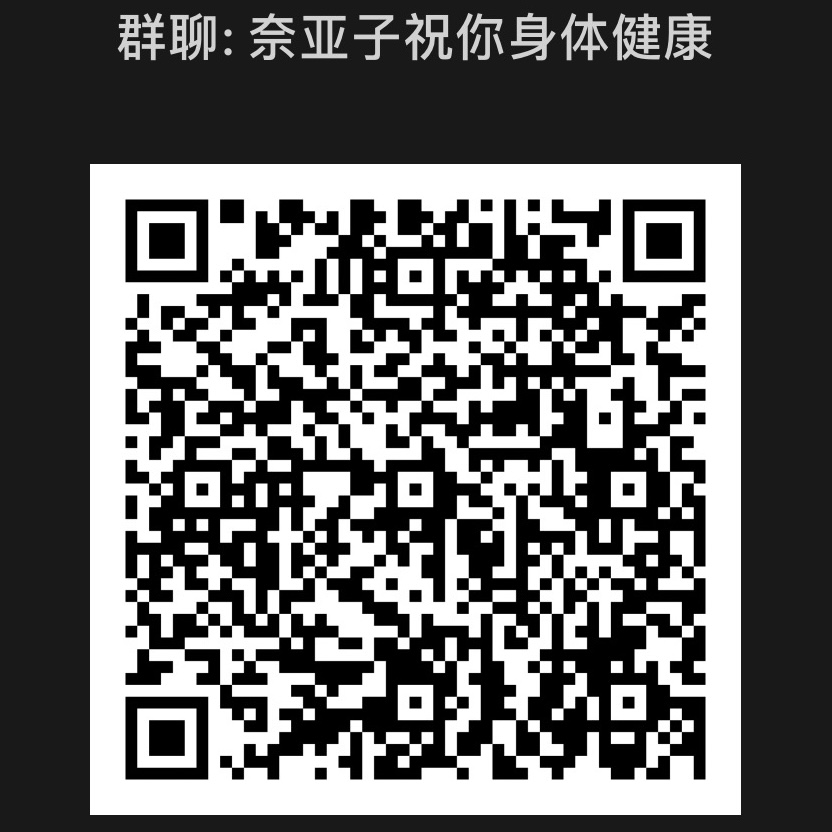
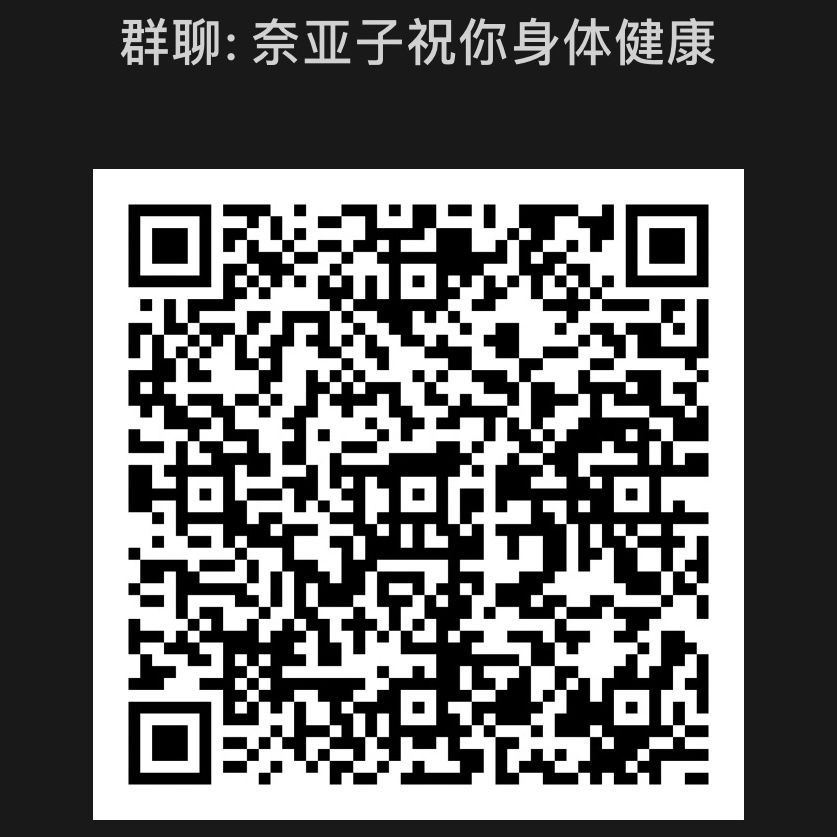
[coc-card] 自动保存功能 & 更新群二维码

diff --git a/src/pages/coc-card/components/GuidePaneContent.vue b/src/pages/coc-card/components/GuidePaneContent.vue
@@ -7,9 +7,7 @@ import IssueRow from './IssueRow.vue';
     <div class="guide-group-title">基本说明：</div>
     <ol class="guide-ol">
       <li>COC 7版人物卡，也是在线车卡工具。</li>
-      <li>
-        可以生成 A4 纸大小的正反面两张图。也可以直接生成空白卡，打印后手写。
-      </li>
+      <li>可以生成 A4 纸大小的正反面两张图。也可以直接生成空白卡，打印后手写。</li>
       <li>除了生成图片外，也可以直接打印（Ctrl + P）</li>
       <li>推荐 PC 端使用，移动端存在性能问题。</li>
       <li>提供了预设的 1000+ 头像，也可以自定义。</li>
@@ -19,13 +17,11 @@ import IssueRow from './IssueRow.vue';
       <li>属性点：可以选择“枫笛式”、“天命式”、“购点式”多种方式加点。</li>
       <li>翻面：正面为调查员属性，背面为调查员故事。</li>
       <li>
-        保存：生成 A4 纸大小的正反面两张图，可以手动保存。
-        还有当前人物卡全部数据的 txt，可以通过“导入”再次使用。
+        保存：生成 A4 纸大小的正反面两张图，可以手动保存。 还有当前人物卡全部数据的
+        txt，可以通过“导入”再次使用。
       </li>
       <li>一发入魂：在属性栏中，随机生成一组属性。</li>
-      <li>
-        快速年龄修正：根据你的年龄自动进行教育成长判定，同时按照规则随机调整基础属性。
-      </li>
+      <li>快速年龄修正：根据你的年龄自动进行教育成长判定，同时按照规则随机调整基础属性。</li>
       <li>重置人物卡：清空当前填写的全部内容。</li>
       <li>
         <div>导入/导出数据：</div>
@@ -35,10 +31,7 @@ import IssueRow from './IssueRow.vue';
         </ol>
       </li>
       <li>骰娘相关：方便网团录卡，提供对应指令。</li>
-      <li>
-        下载空白卡 PDF：方便面团打印使用和开店使用。以后也许会加上直接生成 PDF
-        的功能。
-      </li>
+      <li>下载空白卡 PDF：方便面团打印使用和开店使用。以后也许会加上直接生成 PDF 的功能。</li>
       <li>
         切换成功率模式：在 “全面模式”（显示所有技能的“普通|困难|极难”成功率）和
         “极简模式”（仅显示加过的技能的总成功率）两种模式之间切换。
@@ -53,6 +46,9 @@ import IssueRow from './IssueRow.vue';
     <div class="guide-group-title">其它说明：</div>
     <ol class="guide-ol">
       <li>支持 iOS 设备的“添加到主屏幕”功能，可以离线使用。</li>
+      <li>
+        自动保存：任何修改都会自动保存到本地存储空间中，下次打开时会尝试加载上一次编辑的人物卡。
+      </li>
     </ol>
     <IssueRow />
   </div>

diff --git a/src/hooks/useLocalStorage.ts b/src/hooks/useLocalStorage.ts
@@ -22,7 +22,7 @@ export default function useLocalStorage<Store extends object>(options: LocalStor
   const storage = window.localStorage;
 
   const baseKey = `${namespace}#${app}`;
-  const versionCheckerKey = `${baseKey}##versionChecker`;
+  const versionCheckerKey = `${namespace}##versionChecker`;
 
   const store = useStorage<Store>(baseKey, defaults, storage, {
     mergeDefaults: true,
@@ -31,7 +31,7 @@ export default function useLocalStorage<Store extends object>(options: LocalStor
   const versionStore = useStorage<Record<string, number>>(versionCheckerKey, {}, storage);
   const storedVersion = versionStore.value[baseKey];
   const currentVersion = versionChecker(storedVersion, store);
-  versionStore.value[baseKey] = currentVersion;
+  versionStore.value[app] = currentVersion;
 
   function listItems() {
     return store.value;
@@ -59,6 +59,15 @@ export default function useLocalStorage<Store extends object>(options: LocalStor
 
   return {
     store,
+    get namespace() {
+      return namespace;
+    },
+    get appName() {
+      return app;
+    },
+    get version() {
+      return currentVersion;
+    },
     listItems,
     countItems,
     getItem,

diff --git a/src/pages/coc-card/hooks/useAutoSave.ts b/src/pages/coc-card/hooks/useAutoSave.ts
@@ -1,0 +1,44 @@
+import { watch, h, Fragment } from 'vue';
+import type { Ref } from 'vue';
+import { ElMessageBox } from 'element-plus';
+
+import type { COCPlayerCharacter } from '../types/character';
+
+import useZhTimeAgo from '@/hooks/useZhTimeAgo';
+import useAppLs from './useAppLs';
+
+const ls = useAppLs();
+
+export default function useAutoSave(pcRef: Ref<COCPlayerCharacter>) {
+  const autoSaved = ls.getItem('autoSaved');
+  const { lastModified, pc: savedPC } = autoSaved || {};
+  const { timeAgo } = useZhTimeAgo(lastModified || Date.now());
+
+  watch(
+    pcRef.value,
+    () => {
+      ls.setItem('autoSaved', {
+        pc: pcRef.value,
+        lastModified: Date.now(),
+      });
+    },
+    {
+      deep: true,
+    },
+  );
+
+  if (autoSaved) {
+    ElMessageBox.confirm(
+      h(Fragment, null, [
+        '是否加载您',
+        h('b', { style: { fontWeight: 'bold' } }, timeAgo.value),
+        '编辑的人物卡',
+        savedPC?.name ? `：${savedPC.name}` : '',
+      ]),
+      '检测到编辑过的人物卡',
+      { showClose: false },
+    ).then(() => {
+      pcRef.value = savedPC!;
+    });
+  }
+}

diff --git a/src/pages/coc-card/hooks/useAppLs.ts b/src/pages/coc-card/hooks/useAppLs.ts
@@ -1,19 +1,28 @@
 import useLocalStorage from '@/hooks/useLocalStorage';
-import { LSApp } from '@/types/ls';
 
-interface Store {}
+import { LSApp } from '@/types/ls';
+import type { COCPlayerCharacter } from '../types/character';
+
+interface Store {
+  autoSaved?: {
+    pc: COCPlayerCharacter;
+    lastModified: number; // number of date
+  };
+}
 
 const ls = useLocalStorage<Store>({
   app: LSApp.COCCard,
   versionChecker() {
-    return 0;
+    return 1;
   },
 });
 
 if (import.meta.env.DEV) {
-  console.log('ls', ls);
+  console.log(`ls:${ls.appName}:${ls.version}`, ls);
   // @ts-ignore
   window.ls = ls;
 }
 
-export default ls;
+export default function () {
+  return ls;
+}

diff --git a/src/hooks/useZhTimeAgo.ts b/src/hooks/useZhTimeAgo.ts
@@ -1,0 +1,28 @@
+import { useTimeAgo } from '@vueuse/core';
+
+type Time = Parameters<typeof useTimeAgo>[0];
+type Options = Parameters<typeof useTimeAgo>[1];
+
+export default function useZhTimeAgo(time: Time, options?: Options) {
+  return useTimeAgo(
+    time,
+    Object.assign(
+      {
+        controls: true,
+        messages: {
+          justNow: '就在刚刚',
+          past: '{0}之前',
+          future: '{0}之后',
+          invalid: '',
+          second: '{0}秒',
+          minute: '{0}分钟',
+          hour: '{0}小时',
+          day: '{0}天',
+          month: '{0}个月',
+          year: '{0}年',
+        },
+      },
+      options,
+    ),
+  );
+}

diff --git a/src/pages/coc-card/AppView.vue b/src/pages/coc-card/AppView.vue
@@ -11,6 +11,7 @@ import type { PageData } from './types/pageData';
 
 import useDerives from './hooks/useDerives';
 import useSuggestion from './hooks/useSuggestion';
+import useAutoSave from './hooks/useAutoSave';
 
 import ControlSection from './sections/ControlSection.vue';
 import PaperFront from './PaperFront.vue';
@@ -27,6 +28,8 @@ const paperInFront = ref(qsObject.turn === 'back' ? false : true);
 
 useDerives(pcRef);
 const suggestion = useSuggestion(pcRef, viewData);
+
+useAutoSave(pcRef);
 
 provide('pc', pcRef);
 provide('viewData', viewData);

diff --git a/README.md b/README.md
@@ -13,7 +13,7 @@
 
 ### 车卡工具
 
-https://masquevil.github.io/trpg-saikou/#/coc-card
+[https://masquevil.github.io/trpg-saikou/#/coc-card](https://masquevil.github.io/trpg-saikou/#/coc-card)
 
 ![截图](./src/assets/images/readme-preview/coc-card.png)
 
